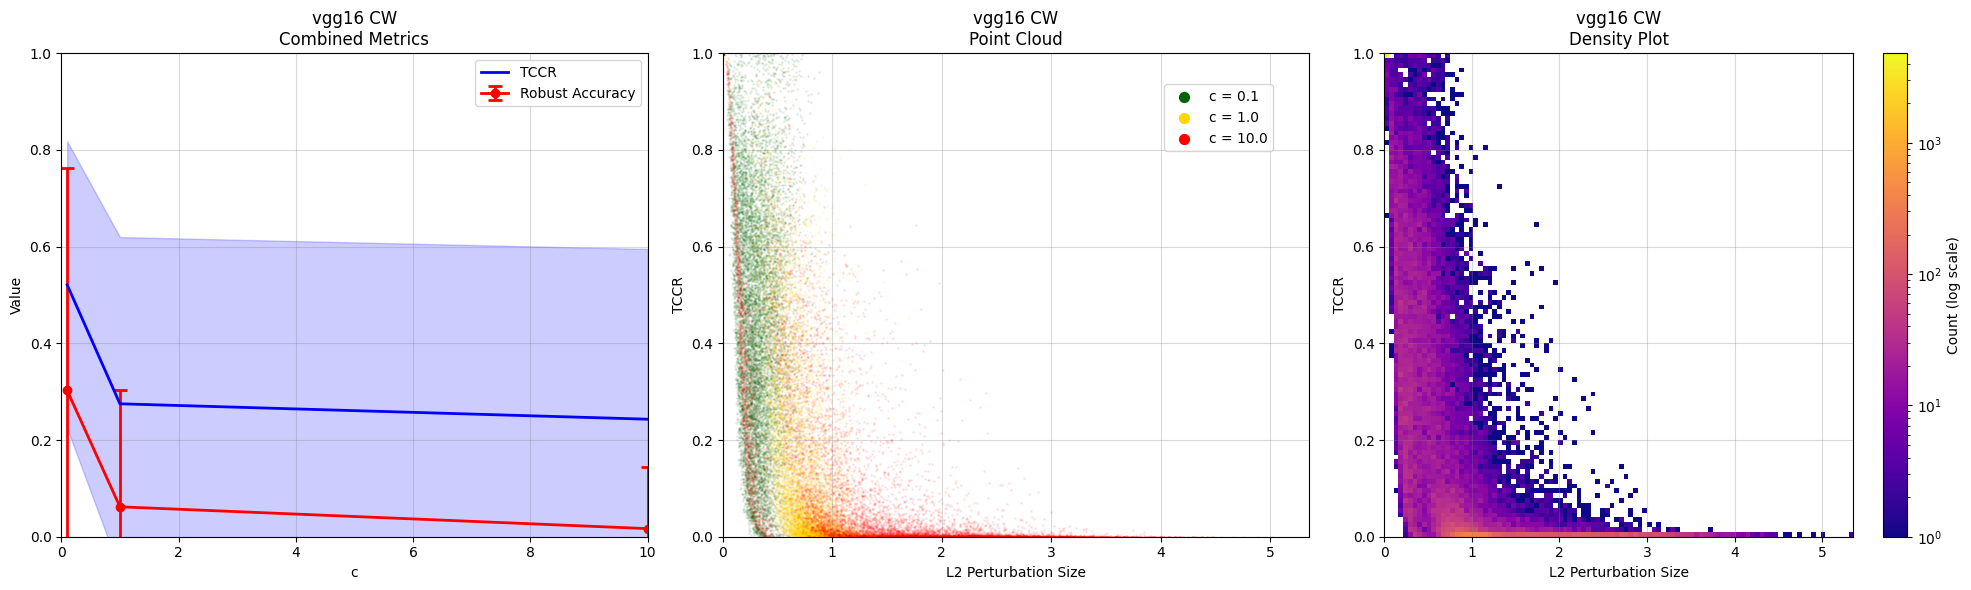
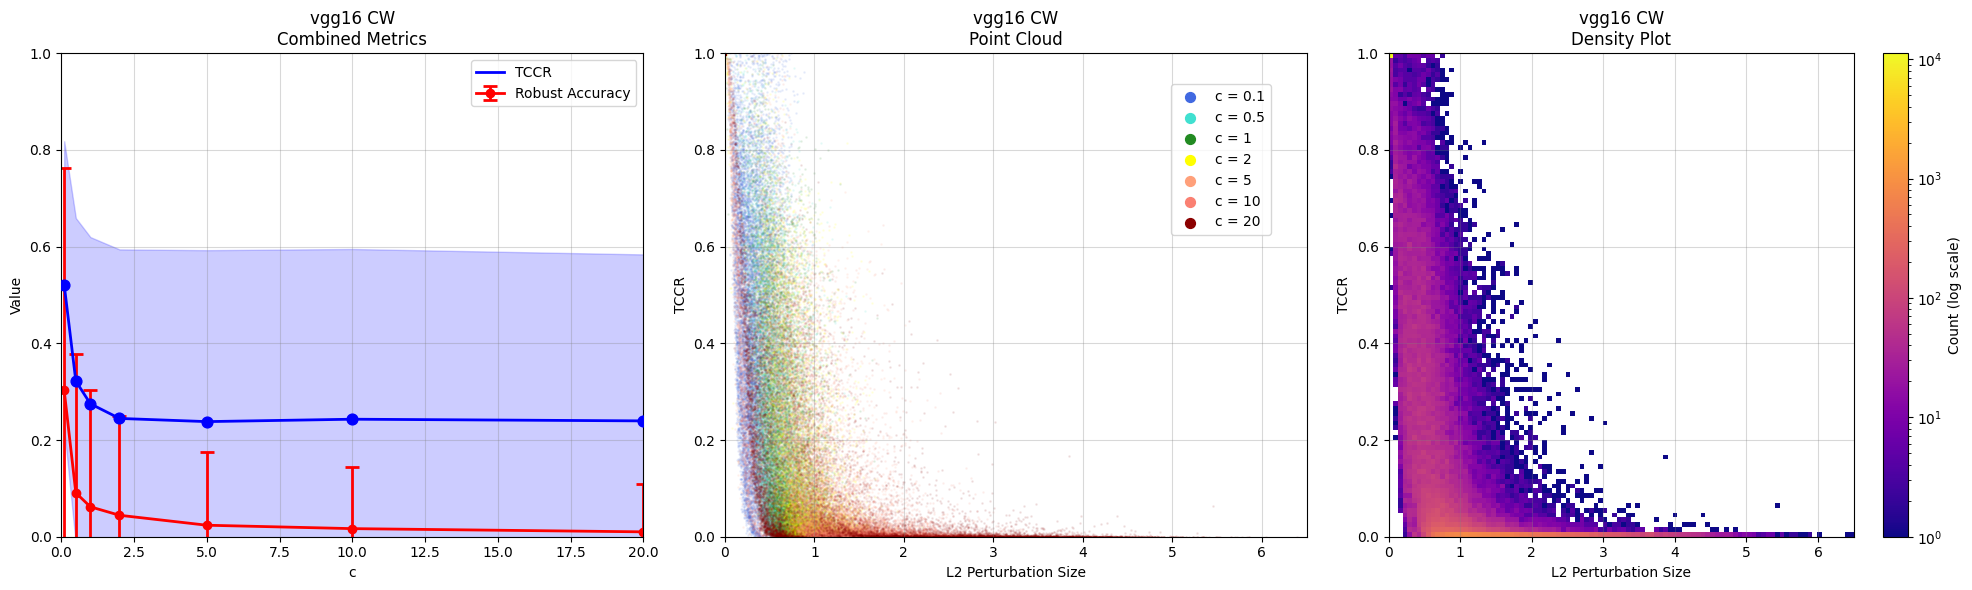
made the script ready for the new pgd experiment

diff --git a/src/analyze_results.py b/src/analyze_results.py
@@ -17,6 +17,8 @@ def load_attack_results(model_name, attack_type):
         pattern = f'{model_name}_fgsm_*.csv'
     elif attack_type == 'cw':
         pattern = f'{model_name}_cw_*.csv'
+    elif attack_type == 'pgd':
+        pattern = f'{model_name}_pgd_*.csv'
     else:
         raise ValueError(f"Unsupported attack type: {attack_type}")
     
@@ -90,7 +92,13 @@ def analyze_attack_results(results, attack_type):
 def plot_results(analysis_results, model_name, attack_type):
     """Plot the Robustness Rate results."""
     params = analysis_results['params']
-    param_name = 'Epsilon' if attack_type == 'fgsm' else 'c'
+    param_name = 'Epsilon' if attack_type in ['fgsm', 'pgd'] else 'c'
+    
+    # Sort params and associated metrics for correct plotting order
+    sort_idx = np.argsort(params)
+    sorted_params = np.array(params)[sort_idx]
+    sorted_ra = np.array(analysis_results['robust_accuracies'])[sort_idx]
+    sorted_ra_stds = np.array(analysis_results['ra_stds'])[sort_idx]
     
     # Create figure with three subplots in a horizontal layout
     fig, (ax1, ax2, ax3) = plt.subplots(1, 3, figsize=(20, 6))
@@ -108,14 +116,12 @@ def plot_results(analysis_results, model_name, attack_type):
         ax.title.set_color('black')
     
     # Plot 1: Combined metrics plot
-    # Plot RA
-    ax1.errorbar(params, analysis_results['robust_accuracies'], 
-                yerr=analysis_results['ra_stds'],
+    ax1.errorbar(sorted_params, sorted_ra, 
+                yerr=sorted_ra_stds,
                 fmt='o-', color='red', linewidth=2,
                 capsize=5, capthick=2, elinewidth=2,
                 label='Robust Accuracy')
     
-    # Plot TCCR
     df = pd.DataFrame({
         param_name: analysis_results['all_params'],
         'TCCR': analysis_results['all_remaining_prob']
@@ -131,6 +137,9 @@ def plot_results(analysis_results, model_name, attack_type):
                     grouped['mean'] + grouped['std'],
                     alpha=0.2, color='blue')
     
+    # Add blue dots at the mean TCCR values
+    ax1.scatter(grouped[param_name], grouped['mean'], color='blue', s=60, zorder=5)
+    
     ax1.set_xlabel(param_name)
     ax1.set_ylabel('Value')
     ax1.set_title(f'{model_name} {attack_type.upper()}\nCombined Metrics')
@@ -141,23 +150,35 @@ def plot_results(analysis_results, model_name, attack_type):
     
     # Plot 2: Scatter plot (point cloud)
     if attack_type == 'cw':
-        # Create a colormap for discrete c values with high contrast colors
         unique_cs = sorted(set(analysis_results['all_params']))
-        colors = ['#006400', '#FFD700', '#FF0000']  # Green, Yellow, Stop-sign Red
-        
-        # Plot each c value separately with its own color
-        for c_val, color in zip(unique_cs, colors):
+        # Use the 1st, 2nd, 4th, 6th, 8th, 10th, and 12th colors from the FGSM color list
+        fgsm_colors = [
+            '#4169E1',  # 1 Royal Blue
+            '#40E0D0',  # 2 Turquoise
+            '#50C878',  # 3 Emerald Green
+            '#228B22',  # 4 Forest Green
+            '#32CD32',  # 5 Lime Green
+            '#FFFF00',  # 6 Cool Yellow
+            '#FFD700',  # 7 Regular Yellow
+            '#FFA07A',  # 8 Light Orange
+            '#FF8C00',  # 9 Orange
+            '#FA8072',  # 10 Salmon
+            '#B22222',  # 11 Brick Colored
+            '#8B0000',  # 12 Deep Blood Red
+            '#DB7093',  # 13 Pinkish Violet
+            '#800080'   # 14 Purple
+        ]
+        idxs = [0, 1, 3, 5, 7, 9, 11]  # 1,2,4,6,8,10,12 (0-based)
+        cw_colors = [fgsm_colors[i] for i in idxs[:len(unique_cs)]]
+        for c_val, color in zip(unique_cs, cw_colors):
             mask = np.array(analysis_results['all_params']) == c_val
             ax2.scatter(np.array(analysis_results['all_l2_norms'])[mask], 
                        np.array(analysis_results['all_remaining_prob'])[mask],
-                       alpha=0.08, s=1, color=color, label=f'c = {c_val:.1f}')
-        
-        # Add legend inside the plot with larger markers
+                       alpha=0.08, s=1, color=color, label=f'c = {c_val:.3g}')
         legend = ax2.legend(bbox_to_anchor=(0.95, 0.95), loc='upper right')
-        # Make the legend markers larger and solid
         for handle in legend.legend_handles:
-            handle.set_sizes([50])  # Increase marker size in legend
-            handle.set_alpha(1.0)   # Make legend markers solid
+            handle.set_sizes([50])
+            handle.set_alpha(1.0)
         plt.setp(legend.get_texts(), color='black')
     else:
         # For FGSM, use a custom color progression with balanced transitions
@@ -226,8 +247,8 @@ def plot_results(analysis_results, model_name, attack_type):
     fig.patch.set_facecolor(bg_color)
     
     plt.tight_layout()
-    plt.savefig(f'results/{model_name}_{attack_type}_tccr.png', bbox_inches='tight', facecolor=bg_color)
-    plt.close()
+    plt.savefig(f'results/{model_name}_{attack_type}_tccr.png', bbox_inches='tight', facecolor='white')
+    plt.close(fig)
 
 def main():
     # Create results directory if it doesn't exist
@@ -235,11 +256,15 @@ def main():
     
     # Analyze both models and attack types
     for model_name in ['vgg16', 'resnet50']:
-        for attack_type in ['fgsm', 'cw']:
+        for attack_type in ['fgsm', 'pgd', 'cw']:
             print(f"\nAnalyzing {model_name} with {attack_type.upper()}...")
             
             # Load results
             results = load_attack_results(model_name, attack_type)
+            
+            if not results:
+                print(f"No results found for {model_name} {attack_type.upper()}.")
+                continue
             
             # Analyze results
             analysis_results = analyze_attack_results(results, attack_type)
@@ -248,7 +273,7 @@ def main():
             plot_results(analysis_results, model_name, attack_type)
             
             # Print summary statistics
-            param_name = 'Epsilon' if attack_type == 'fgsm' else 'c'  # Define param_name here
+            param_name = 'Epsilon' if attack_type in ['fgsm', 'pgd'] else 'c'  # Define param_name here
             print(f"\n{model_name.upper()} {attack_type.upper()} Summary:")
             print("=" * 40)
             print("\nRobust Accuracy Summary:")

diff --git a/src/adversarialAttacks/evaluation/evaluate_perturbations.py b/src/adversarialAttacks/evaluation/evaluate_perturbations.py
@@ -40,7 +40,7 @@ def calculate_ssim(clean_img, adv_img):
         adv_img = adv_img.unsqueeze(0)
     return ssim(clean_img, adv_img, data_range=1.0).item()
 
-def evaluate_perturbations(model_name, attack_type, attack_param, data_dir, device='cuda', seed=42):
+def evaluate_perturbations(model_name, attack_type, attack_param, data_dir, device='cuda', seed=42, alpha=None, steps=None):
     """
     Evaluate model robustness by tracking perturbation sizes and confidence changes.
     
@@ -51,6 +51,8 @@ def evaluate_perturbations(model_name, attack_type, attack_param, data_dir, devi
         data_dir (str): Path to test images directory
         device (str): Device to run evaluation on
         seed (int): Random seed for reproducibility
+        alpha (float): Step size for PGD
+        steps (int): Number of steps for PGD
     """
     # Set random seed
     set_seed(seed)
@@ -73,9 +75,10 @@ def evaluate_perturbations(model_name, attack_type, attack_param, data_dir, devi
     model.eval()
     
     # Setup attack
-    if attack_type.lower() in ['fgsm', 'pgd']:
-        attack_cls = FGSM if attack_type.lower() == 'fgsm' else PGD
-        attack = attack_cls(model, device=device, epsilon=attack_param)
+    if attack_type.lower() == 'fgsm':
+        attack = FGSM(model, device=device, epsilon=attack_param)
+    elif attack_type.lower() == 'pgd':
+        attack = PGD(model, device=device, epsilon=attack_param, alpha=alpha, num_steps=steps)
     else:  # CW
         print("Initializing CW attack...")
         attack = CW(model, device=device, c=attack_param, max_iter=100)
@@ -161,37 +164,27 @@ if __name__ == "__main__":
     # Set random seed for reproducibility
     set_seed(42)
     
-    # Example usage
     device = torch.device("cuda" if torch.cuda.is_available() else "cpu")
-    
-    # Print detailed GPU information
     print("\n=== GPU Information ===")
     print(f"CUDA available: {torch.cuda.is_available()}")
     print("=====================\n")
-    
-    # Example 2: Run only CW attack on VGG16 with multiple c values
-    models = ['vgg16', 'resnet50']  # Only VGG16
-    attacks = [
-        ('cw', 0.1),   # Try different c values
-        ('cw', 1.0),
-        ('cw', 10.0),
-        #('cw', 5.0),
-    ]
-    
-    # Example 3: Run specific combinations
-    # models = ['vgg16']
-    # attacks = [
-    #     ('fgsm', 0.03),
-    #     ('pgd', 0.03)
-    # ]
-    
+
+    # PGD: Run for all epsilon values from 0.01 to 0.25 with 0.02 increments, 10 steps, alpha = epsilon/10
+    models = ['vgg16', 'resnet50']
+    attack_type = 'pgd'
+    steps = 10
+    epsilons = np.arange(0.01, 0.25+0.001, 0.02)
     for model_name in models:
-        for attack_type, param in attacks:
-            print(f"\nEvaluating {model_name} with {attack_type} (param={param})")
+        for epsilon in epsilons:
+            alpha = epsilon / steps
+            print(f"\nEvaluating {model_name} with PGD (epsilon={epsilon:.3f}, steps={steps}, alpha={alpha:.4f})")
             df = evaluate_perturbations(
                 model_name=model_name,
                 attack_type=attack_type,
-                attack_param=param,
+                attack_param=epsilon,
                 data_dir='data/processed/test',
-                device=device
-            ) 
+                device=device,
+                seed=42,
+                alpha=alpha,
+                steps=steps
+            )
